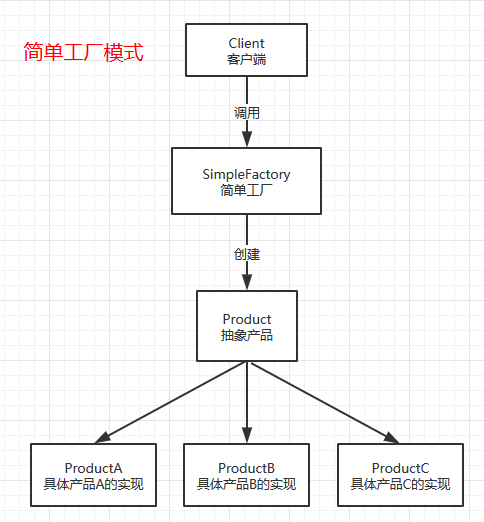
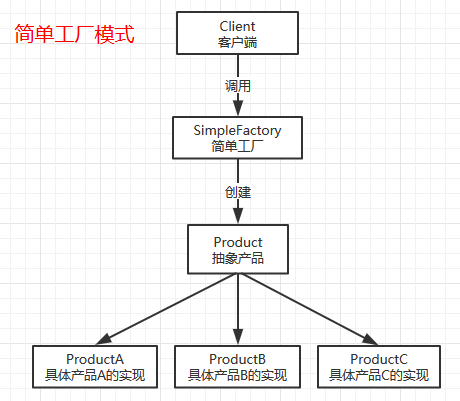
简单工厂模式

diff --git a/main/notes/GoF设计模式.md b/main/notes/GoF设计模式.md
@@ -91,7 +91,7 @@
 本文将以一个创建“运载工具”的实例的例子来介绍简单工厂模式。 
 
 ### 类图
-<div align="center"> <img src="pics/design-pattern/1-简单工厂实例图.png" width="500"/> </div><br>
+<div align="center"> <img src="pics/design-pattern/1-简单工厂实例图.png" width="750"/> </div><br>
 
 ### 编码实现
 步骤一：定义好工厂要生成的产品的抽象
